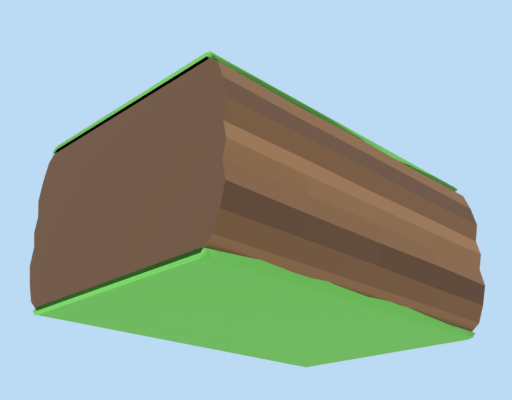
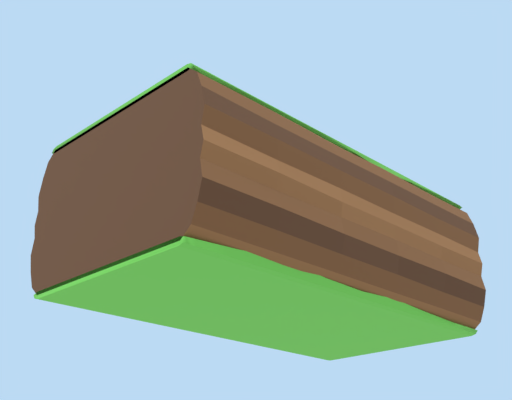
2-1: loop clear of the bough, records on side branches, a small held nut
- The flip loop no longer runs through the bough. The loops are 100 m apart
  (z 1000 and 1100), which 40 m slabs cannot fill without overlapping
  (coplanar moss flickers) or leaving a step, so bough-slab is now 50 m long
  (same cross-section, 540 triangles) and two of them span z 1000-1100,
  with the caps on the loops' centres (z 1000 and 1100, as 1-3 lines up
  island-flip). A branch-log under the exit track (x 36, z 1100-1140)
  carries it from the rounded end to the top line's logs. Rails unchanged.
- New model branch-stub (forest.py, crafted like branch-log: faceted bark
  strips, a collar, moss, a twig stub, a cut end and a sprig of leaves): a
  short side branch out of a branch-log's flank, levelling off under a
  record; origin at the record's spot on its top. Placed under
  squirrel-nest (main 1064.88, lateral 5, under the nest's stem foot) and
  acorn-big (main 925.3, lateral -5). Record positions unchanged; where it
  leaves the log its top stays 0.35 m under the log's, clear of the train.
- forest.ts: the squirrel holds its nut small (0.28x) in its paws in front
  of its chest instead of the 2 m acorn in front of its 1.5 m body; the nut
  grows back to full size as it falls, so the nut on the rail (and the
  rolling nuts) keep their size. Also applies to 6-2's squirrel.
- models.json, ASSET_PIPELINE section 5 and ticket 0007 updated.

Claude-Session: https://claude.ai/code/session_01DufJAw4fQ6tTfsoi3dumzG

diff --git a/src/view/three/forest.ts b/src/view/three/forest.ts
@@ -25,10 +25,16 @@ const NUT_LIFT = 0.1;
  */
 const NUT_MIDDLE = 0.85;
 const NUT_RADIUS = 0.77;
-/** Where a squirrel sits over its rail, and where it holds the nut (m above the rail). */
+/** Where a squirrel sits over its rail (m above the rail, m to its right). */
 const SQUIRREL_HEIGHT = 6;
 const SQUIRREL_LATERAL = 1.8;
-const HELD_NUT_HEIGHT = 5.4;
+/**
+ * The held nut: small in the squirrel's paws (the 2 m acorn would hide the 1.5 m squirrel), its middle this far up and
+ * forward of the squirrel's origin (m, in the squirrel's own frame: assets/blender/forest.py puts the paws at y 0.63,
+ * z 0.3). It grows back to full size as it falls, so the nut on the rail is the one the train jumps.
+ */
+const HELD_NUT_SCALE = 0.28;
+const HELD_NUT_AT = new Vector3(0, 0.63, 0.47);
 
 /** A bough's track and log, bent every frame (vertices move down by sag × u², u = 0 at the trunk, 1 at the tip). */
 interface BoughVisual {
@@ -55,7 +61,11 @@ interface NutVisual {
   seconds: number;
   /** After a fall onto the rail it rests; off the rail it hides. */
   then: 'rest' | 'hidden';
+  /** Its size when the fall began (a held nut is small); it ends full size. */
+  fromScale: number;
   range: number;
+  /** A squirrel's nut: where its paws hold it (the turning middle, in the group's frame). */
+  paws: Vector3 | null;
 }
 
 /**
@@ -108,7 +118,9 @@ export class ForestGimmicks {
         to: new Vector3(),
         seconds: 0,
         then: 'rest',
+        fromScale: 1,
         range,
+        paws: null,
       };
       this.nuts.set(actor.id, visual);
       this.pose(visual);
@@ -122,6 +134,8 @@ export class ForestGimmicks {
         holder.position.copy(f.position).addScaledVector(f.up, SQUIRREL_HEIGHT).addScaledVector(f.right, SQUIRREL_LATERAL);
         // Face across the rail, towards the approaching train a little.
         holder.lookAt(holder.position.clone().sub(f.right).addScaledVector(f.tangent, -0.6));
+        holder.updateMatrix();
+        visual.paws = HELD_NUT_AT.clone().applyMatrix4(holder.matrix);
         this.group.add(holder);
         this.squirrels.set(actor.id, squirrel);
         this.hold(visual);
@@ -156,23 +170,23 @@ export class ForestGimmicks {
   private place(nut: NutVisual, s: number): void {
     const f = this.frame(nut.railId, s);
     nut.object.position.copy(f.position).addScaledVector(f.up, this.middleHeight(nut));
+    nut.object.scale.setScalar(1);
     nut.object.visible = true;
   }
 
-  /** A squirrel's nut, held over the rail. */
+  /** A squirrel's nut, small in its paws over the rail. */
   private hold(nut: NutVisual): void {
-    const f = this.frame(nut.railId, nut.at);
-    nut.object.position
-      .copy(f.position)
-      .addScaledVector(f.up, HELD_NUT_HEIGHT + NUT_MIDDLE)
-      .addScaledVector(f.right, SQUIRREL_LATERAL * 0.6);
+    if (!nut.paws) return;
+    nut.object.position.copy(nut.paws);
     nut.object.rotation.set(0, 0, 0);
+    nut.object.scale.setScalar(HELD_NUT_SCALE);
     nut.object.visible = true;
     nut.mode = 'rest';
   }
 
   private fall(nut: NutVisual, to: Vector3, seconds: number, then: 'rest' | 'hidden'): void {
     nut.from.copy(nut.object.position);
+    nut.fromScale = nut.object.scale.x;
     nut.to.copy(to);
     nut.t = 0;
     nut.seconds = seconds;
@@ -257,6 +271,8 @@ export class ForestGimmicks {
         nut.t += dt;
         const k = Math.min(1, nut.t / nut.seconds);
         nut.object.position.lerpVectors(nut.from, nut.to, k);
+        // A held nut grows back to full size on the way down (quickly, so it lands as big as a rolling one).
+        nut.object.scale.setScalar(nut.fromScale + (1 - nut.fromScale) * Math.min(1, k * 1.6));
         // A small hop at the start of the fall. A nut that comes to rest on the rail turns over once and lands the way
         // it was; one falling out of sight just tumbles.
         nut.object.position.y += Math.sin(k * Math.PI) * 1.2;

diff --git a/assets/blender/forest.py b/assets/blender/forest.py
@@ -2,15 +2,17 @@
 
 The crafted look (つくりこみ), chosen for every model on 2026-10-15 (docs/ASSET_PIPELINE.md §1), in the toy style of
 1-3's set (sky.py, whose mesh helpers and preview this script shares).
-tree-trunk (the giant tree), canopy (a clump of leaves), branch-log (the branch under the rail), bough-slab and
-bough-slab-cap (the flat upside-down bough the rail wraps round, and its rounded end), leaf-pad (the big leaf that
-catches a falling train; 2-2 builds floors, roofs and lily pads of it), mushroom, acorn (the nut that rolls down the
-branch; the squirrel holds one), squirrel, and the records acorn-big, squirrel-nest and record-feather. Same names,
-sizes, origins and orientation as the code stand-ins they replace, so the stage JSON does not change:
+tree-trunk (the giant tree), canopy (a clump of leaves), branch-log (the branch under the rail), branch-stub (a short
+side branch a record sits on), bough-slab and bough-slab-cap (the flat upside-down bough the rail wraps round, and its
+rounded end), leaf-pad (the big leaf that catches a falling train; 2-2 builds floors, roofs and lily pads of it),
+mushroom, acorn (the nut that rolls down the branch; the squirrel holds one), squirrel, and the records acorn-big,
+squirrel-nest and record-feather. Same names, origins and orientation as the code stand-ins they replace:
 - branch-log: origin at the centre of its top line, the top at y = 0 all along (the track sits on it), 3.8 x 3.8 x 40,
   thinner toward +Z; the thick end's collar hides the thin end of the log before it (logs are laid end to end).
-- bough-slab 30 x 18.8 x 40: origin at the top centre, moss on top (y = 0) and underneath (y = -18.8), bark sides; the
-  ends at z = +-20 are cut flat with one cross-section, so slabs line up end to end and the cap closes the last one.
+- branch-stub: out of a branch-log's flank, +Z away from the log; origin at the record's spot on its top (y = 0).
+- bough-slab 30 x 18.8 x 50: origin at the top centre, moss on top (y = 0) and underneath (y = -18.8), bark sides; the
+  ends at z = +-25 are cut flat with one cross-section, so slabs line up end to end and the cap closes the last one
+  (50 m, not island-flip's 40: 2-1's loops are 100 m apart, and the caps sit on the loops' centres).
   bough-slab-cap: the rounded end (radius 9.4 about y = -9.4, z = 0), out toward +Z; origin at the top of the end it
   closes. Rails run at x = +-6 on top and between x = -6 and 6 underneath: |x| < 10.5 stays flat and clear.
 - Everything else: origin at the bottom centre, +Z forward (the squirrel's face; the side facing the rail for the
@@ -462,6 +464,71 @@ def branch_log():
     return parts, 800
 
 
+def branch_stub():
+    """A short side branch for a record to sit on beside the track (2-1's squirrel-nest and acorn-big, 5 m out from the
+    rail): it grows out of a branch-log's flank, its top line rising 1.35 m as it leaves the log and levelling off
+    under the record, and ends 1.5 m beyond it in a pale cut end, a sprig of leaves at its tip. Faceted bark in long
+    strips of three browns as on branch-log, a lighter collar where it leaves the log, a cushion of moss on its flank,
+    a cut-off twig underneath. +Z points away from the log (the stage turns it across the rail); the origin is the
+    record's spot on its top (y = 0 there). The root, 5.4 m back and 2.2 m down, sinks into the log's middle; where it
+    leaves the log its top is still 0.35 m under the log's, clear of the train."""
+    bark, dark, light = mat("Bark", BARK, 0.9), mat("Bark dark", BARK_DARK, 0.9), mat("Bark light", BARK_LIGHT, 0.9)
+    moss = mat("Moss", LEAF, 0.9)
+    leaf, leaf_light = mat("Leaf", LEAF, 0.8), mat("Leaf light", LEAF_LIGHT, 0.8)
+    rng = random.Random(43)
+    parts: list = []
+    sides, wide = 10, 1.12  # a little wider than deep, so the record's foot has room on top
+    # (z, height of the top line, radius, wobble): the root in the log, the collar where it leaves it, the seat (z = 0),
+    # the cut end.
+    stations = [(-5.4, -1.35, 0.85, 0.0), (-3.5, -1.02, 0.95, 0.0), (-2.9, -0.86, 0.84, 0.03), (-2.0, -0.56, 0.74, 0.04),
+                (-1.0, -0.2, 0.66, 0.04), (0.0, 0.0, 0.6, 0.0), (0.9, -0.03, 0.55, 0.03), (1.5, -0.09, 0.5, 0.0)]
+    tops = [Vector((0.0, y, z)) for z, y, _, _ in stations]
+    ups = []
+    rings = []
+    for i, (z, y, r, wobble) in enumerate(stations):
+        along = (tops[min(i + 1, len(tops) - 1)] - tops[max(i - 1, 0)]).normalized()
+        up = along.cross(Vector((1, 0, 0))).normalized()
+        ups.append(up)
+        rings.append([tuple(tops[i] + Vector((wide * x, 0, 0)) + up * yy) for x, yy in log_section(r, wobble, rng, sides=sides, grain=0.08)])
+    rows = (len(rings) - 1) * sides
+    strip_tone = [0, 2, 0, 1, 0, 2, 1, 0, 1, 2]
+
+    def colour(c, nm, i):
+        if i >= rows:
+            return 1 if i == rows else 2  # the root's end (inside the log), the cut end
+        if i // sides == 1:
+            return 2  # the collar
+        return strip_tone[i % sides]
+
+    loft_rings(parts, "stub", rings, [bark, dark, light], colour)
+    # The cut end: pale wood inside a rim of bark.
+    end_top, end_up, end_r = tops[-1], ups[-1], stations[-1][2]
+    along = (tops[-1] - tops[-2]).normalized()
+    oval(parts, "cut", tuple(end_top - end_up * (end_r * math.cos(math.pi / sides))), tuple(along), tuple(end_up),
+         2 * wide * end_r * 0.72, 2 * end_r * 0.72, mat("Cut wood", "#C9A272", 0.85), segments=8, lift=0.012)
+    # A cushion of moss on the upper flank, short of the record's spot.
+    side, a = -1, math.radians(50)
+    mid_top, mid_up, mid_r = (tops[3] + tops[4]) / 2, (ups[3] + ups[4]).normalized(), 0.7
+    centre = mid_top - mid_up * (mid_r * math.cos(math.pi / sides))
+    c = centre + Vector((side * wide * mid_r * math.sin(a), 0, 0)) + mid_up * (mid_r * math.cos(a) - 0.04)
+    cushion = k.add_ellipsoid(parts, "moss", (0.7, 0.3, 1.4), tuple(c), moss, segments=6, rings=3)
+    cushion.rotation_euler[1] = side * a  # lie along the flank (Blender Y is the branch's axis)
+    k.set_smooth(cushion, True)
+    # A cut-off twig underneath.
+    root = tops[4] - ups[4] * 1.1 + Vector((0.25, 0, 0))
+    tip = root + Vector((0.45, -0.5, 0.25))
+    tube(parts, "twig-stub", [tuple(root), tuple(tip)], [0.17, 0.13], dark, sides=5)
+    oval(parts, "twig-stub-end", tuple(tip), (0.55, -0.62, 0.3), (0, 1, 0), 0.24, 0.24, light, segments=6, lift=0.01)
+    # A sprig of leaves out of the tip, below the top (clear of the record), fanning out away from the log.
+    root = tops[-2] - ups[-2] * 0.45 + Vector((0.42, 0, 0))
+    tip = root + Vector((0.7, 0.15, 0.85))
+    tube(parts, "twig", [tuple(root), tuple(tip)], [0.11, 0.06], dark, sides=5)
+    for q, (dx, dy, dz, length) in enumerate(((0.35, 0.15, 1.0, 1.35), (1.0, 0.05, 0.35, 1.2), (-0.45, -0.05, 1.0, 1.1))):
+        leaf_blade(parts, f"sprig-{q}", tuple(tip), (dx, dy, dz), length, 0.44, leaf_light if q % 2 else leaf, leaf, droop=0.22,
+                   thick=0.05, sections=2)
+    return parts, 400
+
+
 # ---------------------------------------------------------------- the upside-down bough and its rounded end
 
 SLAB_THICK = 18.8
@@ -502,18 +569,22 @@ def bough_materials(under_glow=0.32):
     }
 
 
+SLAB_LENGTH = 50.0
+
+
 def bough_slab():
-    """The flat upside-down bough (1-3's island-flip in the forest): 30 m wide, 18.8 thick, 40 long. A carpet of moss
+    """The flat upside-down bough (1-3's island-flip in the forest): 30 m wide, 18.8 thick, 50 long. A carpet of moss
     on top (y = 0) and underneath (y = -18.8, glowing a little, as 1-3's underside grass does, so it stays bright lit
     only from below), its lip rounded with drips hanging over; between them the bark bulges out in ridges of grain
     along the bough, in three browns; |x| < 12 stays flat for the rails."""
     m = bough_materials()
     parts: list = []
     rng = random.Random(51)
-    columns = 4
+    columns = 5
+    half = SLAB_LENGTH / 2
     rings = []
     for c in range(columns + 1):
-        z = -20 + 40 * c / columns
+        z = -half + SLAB_LENGTH * c / columns
         inner = 0 < c < columns
         ring = []
         for x, y in BARK_SIDE + [(x, SLAB_MID * 2 - y) for x, y in reversed(BARK_SIDE[:-1])]:
@@ -526,7 +597,7 @@ def bough_slab():
         drips_r, drips_l = s.strip_drips(8, 61 if glow else 63, 1.1), s.strip_drips(8, 62 if glow else 64, 1.1)
         rings = []
         for c in range(9):
-            z = -20 + 40 * c / 8
+            z = -half + SLAB_LENGTH * c / 8
             rings.append([(x, (-SLAB_THICK - y) if glow else y, z) for x, y in moss_section(drips_r[c], drips_l[c])])
         loft_rings(parts, f"moss-{face}", rings, [m["moss under" if glow else "moss"]], None, lambda c, nm: abs(nm.y) < 0.97)
     return parts, 600
@@ -952,13 +1023,13 @@ def export_glb(model, name, budget, max_kb=250, origin="floor"):
     }, sort_keys=True))
 
 
-BUILDERS = {"tree-trunk": tree_trunk, "canopy": canopy, "branch-log": branch_log, "bough-slab": bough_slab, "bough-slab-cap": bough_slab_cap, "leaf-pad": leaf_pad, "mushroom": mushroom, "acorn": acorn, "acorn-big": acorn_big, "squirrel": squirrel, "squirrel-nest": squirrel_nest, "record-feather": record_feather}
+BUILDERS = {"tree-trunk": tree_trunk, "canopy": canopy, "branch-log": branch_log, "branch-stub": branch_stub, "bough-slab": bough_slab, "bough-slab-cap": bough_slab_cap, "leaf-pad": leaf_pad, "mushroom": mushroom, "acorn": acorn, "acorn-big": acorn_big, "squirrel": squirrel, "squirrel-nest": squirrel_nest, "record-feather": record_feather}
 # Camera directions (Blender axes: -Y is the model's front, +Z up).
 VIEWS = {"tree-trunk": (0.55, -0.72, 0.25), "canopy": (0.55, -0.72, 0.1), "bough-slab": (0.62, -0.62, -0.38),
          "bough-slab-cap": (0.8, -0.55, 0.25), "leaf-pad": (0.45, -0.6, 0.65),
          "record-feather": (0.2, -0.9, 0.25)}
 TALL = {"tree-trunk", "acorn", "acorn-big", "squirrel", "record-feather"}
-ORIGIN = {"branch-log": "top", "bough-slab": "top", "bough-slab-cap": "top"}
+ORIGIN = {"branch-log": "top", "branch-stub": "top", "bough-slab": "top", "bough-slab-cap": "top"}
 KB = {"squirrel": 350}
 UNDER_BODY = {"squirrel", "record-feather"}  # set on the floor, the origin kept under the body
 

diff --git a/docs/tickets/0007-blender-giant-tree-set.md b/docs/tickets/0007-blender-giant-tree-set.md
@@ -20,7 +20,8 @@
 | `tree-trunk` | 28 × 90 × 28 | ≤ 3,000 | 巨木の幹。根元が広がり、縦に皮のすじ 6 本 |
 | `canopy` | 30 × 24 × 30 | ≤ 2,000 | 葉のかたまり（丸の集合） |
 | `branch-log` | 3.8 × 3.8 × 40 | ≤ 800 | 線路の下の太い枝。**原点: 上面の中心**（上面 Y = 0）。+Z に向かって細くなる。横に葉の房 3 つ |
-| `bough-slab` | 30 × 18.8 × 40 | ≤ 600 | さかさえだの平たい枝（1-3 の `island-flip` と同じ役目）。**原点: 上面の中心**。上下の面に苔 |
+| `branch-stub` | 3.2 × 3 × 8.4 | ≤ 400 | （あとから 足した）記録を のせる 横の 小枝。`branch-log` の 横から 出て、記録の 下で 平らに なる。**原点: 記録を のせる 上面**（+Z が 枝の 外）|
+| `bough-slab` | 30 × 18.8 × 50 | ≤ 600 | さかさえだの平たい枝（1-3 の `island-flip` と同じ役目）。**原点: 上面の中心**。上下の面に苔 |
 | `bough-slab-cap` | 30 × 18.8 × 9.4 | ≤ 600 | その丸い端（半円柱、+Z 側）。**原点: 上面の端の中心** |
 | `leaf-pad` | 16 × 1.4 × 10 | ≤ 500 | 落ちた電車を受け止める大きな葉。浅いお皿の形、真ん中に葉脈 |
 | `acorn` | 1.5 × 2 × 1.5 | ≤ 500 | 転がる木の実。帽子と軸つき |
@@ -34,6 +35,9 @@
 - `canopy`: 丸い かたまりを つないだ 1 枚の 面に 色を ぬって 焼いた（上の かたまりは 明るい みどり、下と 裏は こい みどり、葉の もよう）。絵 1 枚なので 1 回で 描ける
 - `branch-log`: 上面は 端から 端まで y = 0（仮の 形は 先へ いくほど 上面が 下がって いた）。太い 根もと（-Z）の ふしの 輪が、つないで 置いた 前の 枝の 細い 先を かくす。葉の 房は 線路より 低い ところだけ
 - `bough-slab`・`bough-slab-cap`: 1-3 の `island-flip` と 同じ 決まり（上と 下に 苔、|x| < 12 は 平ら、端は 同じ 断面で つながる）。下の 苔は 少し 光らせて、下からの 光だけでも 明るく 見せる
+- （2026-10-16 の なおし）`bough-slab` は 長さ 50 m（`island-flip` は 40 m）。2-1 の さかさえだの 2 つの 輪は 100 m はなれて いて、丸い 端（`bough-slab-cap`）を 輪の まん中に おくと 板 2 まいで ちょうど うまる（40 m の 板では かさなって ちらつくか、だんに なる）。前は 板が 20 m 長くて、+Z の 輪で 電車が 板の 中に もぐって いた。輪から 出た 線路の 下（z 1100〜1140）には `branch-log` を 1 本 足した
+- （2026-10-16 の なおし）`branch-stub`: 記録 `squirrel-nest`・`acorn-big` が 枝の 横 5 m で 宙に ういて いたので、その 下に 横の 小枝を 置いた（記録の 場所は そのまま）。枝の 横から 出て 1.35 m のぼり、記録の 下で 平らに なって、先に 切り口と 葉の 房。線路の そばでは 上面が `branch-log` の 上面より 0.35 m 低く、電車に あたらない
+- （2026-10-16 の なおし）リスが 持つ 実は 0.28 倍の 大きさで 前足に（2 m の 実が 1.5 m の リスを かくして いた）。落とすと 落ちながら もとの 大きさに もどり、線路の 上の 実（ジャンプで こえる）は 前と 同じ 大きさ（`src/view/three/forest.ts`）
 - `leaf-pad`: 浅い お皿（まん中 1.04 m、ふち 1.38 m）。葉脈の 上が 1.2 m で、2-2 の 置き方（「1.2 m の 高さ」）の まま。葉の 柄が 下へ まがって 地面に つく
 - `acorn`: ゲームが 実の まん中で 回す（`src/view/three/forest.ts`。仮の 形は 根もとを 中心に 回って、レールの 下へ もぐって いた）。転がる 実は 横に ねて 転がり、リスの 実は 立てて 持つ
 - `squirrel`: 原点は 体の 下（しっぽが うしろへ 1 m）。顔は 目だけ。ゲームの「ゆれ」で さかさまに なって いたのと、ステージの はじめに 持って いる 実が 消えて いたのを 直した

diff --git a/docs/ASSET_PIPELINE.md b/docs/ASSET_PIPELINE.md
@@ -47,6 +47,6 @@
 | 恐竜の谷の生き物 | dino-mid-sleep / dino-mid-stand、dino-small-walk、dino-large-body ＋ dino-large-neck（首は付け根が原点）、ptero、ptero-far（群れ用の遠景版。絵なしの 2 色・400 三角形以下） | `dinos.py` |
 | くものうえ（1-3） | island-a / island-b / island-c（浮島。原点は 上面の 中心で、岩は 下。`assets/models.json` の `"origin": "top"`）、island-flip ＋ island-flip-cap（線路が 回りこむ 板と その 丸い 端）、cloud-a / cloud-b、cloud-bounce（ぽよん雲）、sky-buoy（浮き標）、jump-pad（汽笛で 出る ジャンプ台）、updraft-ring（線路を くぐる 風の 輪）、記録 cloud-crystal・weathervane・upside-flower（さかさに さく 花。原点は くきの 根もと＝上） | `sky.py` |
 | 記録（1-1・1-2） | record-town-board（まちの かんばん）、record-hq-plans（ほんぶの せっけいず）、record-balloon（原点は ひもの 下の はし）、record-nest（がけの うえの す） | `records.py` |
-| おおきなきのくに（2-1） | tree-trunk（巨木。根は 38 m の 円まで）、canopy（葉の かたまり。色を ぬって 焼いた 絵 1 枚）、branch-log（線路の 下の 枝。原点は 上面の 中心で、上面は 端から 端まで y = 0）、bough-slab ＋ bough-slab-cap（さかさえだの 板と その 丸い 端。island-flip と 同じ 決まり）、leaf-pad（落ちた 電車を 受ける 大きな 葉。2-2 でも 床・屋根・はすの 葉に 使う）、mushroom、acorn（転がる 木の実。ゲームが まん中で 回す）、squirrel（リス。原点は 体の 下）、記録 acorn-big・squirrel-nest・record-feather | `forest.py`（`sky.py` の 道具を 使う） |
+| おおきなきのくに（2-1） | tree-trunk（巨木。根は 38 m の 円まで）、canopy（葉の かたまり。色を ぬって 焼いた 絵 1 枚）、branch-log（線路の 下の 枝。原点は 上面の 中心で、上面は 端から 端まで y = 0）、branch-stub（記録を のせる 横の 小枝。原点は 記録を のせる 上面、+Z が 枝の 外）、bough-slab ＋ bough-slab-cap（さかさえだの 板と その 丸い 端。island-flip と 同じ 決まりで、板は 50 m）、leaf-pad（落ちた 電車を 受ける 大きな 葉。2-2 でも 床・屋根・はすの 葉に 使う）、mushroom、acorn（転がる 木の実。ゲームが まん中で 回す）、squirrel（リス。原点は 体の 下）、記録 acorn-big・squirrel-nest・record-feather | `forest.py`（`sky.py` の 道具を 使う） |
 
 名前の `-proto` は、ゲームのコードが参照している名前なので残している（中身は本番用）。
